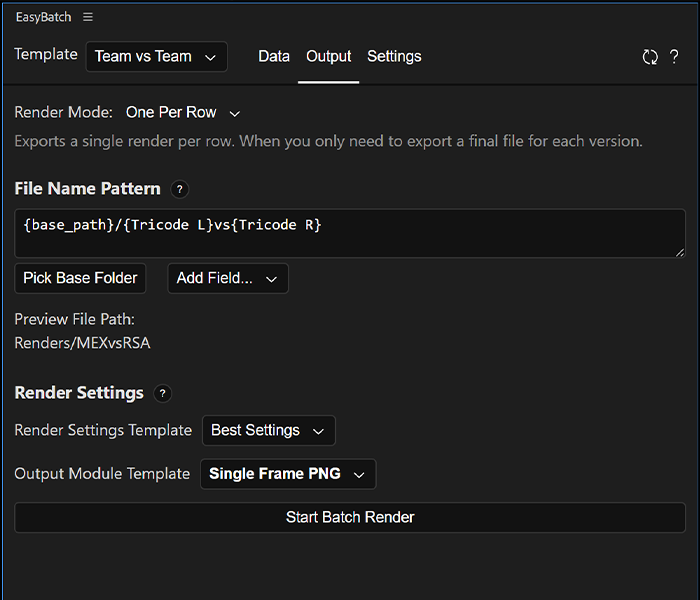
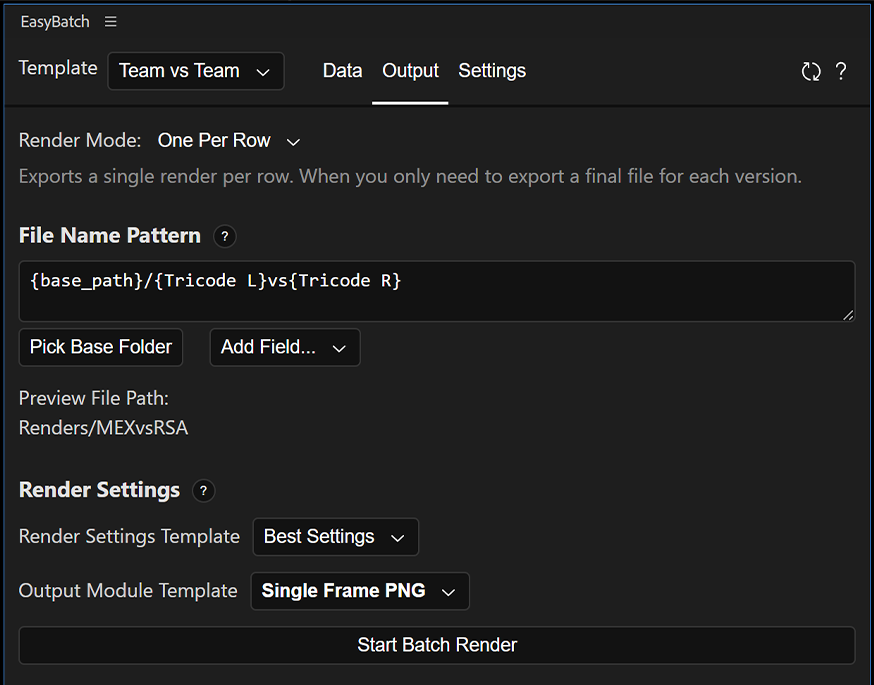
Updated output tab docs. Plus added mod date plugin.

diff --git a/docs/tab-output.md b/docs/tab-output.md
@@ -1,55 +1,137 @@
-In this page you'll find all the configurations to render the  template.
+The `Output` tab is where you configure how your renders are generated and where they are saved. You can choose between rendering files and generating compositions, define dynamic file name patterns, and select the render settings and output module for the generated files.
 
-![Screenshot of the output tab](assets/ss_output.png)
 
-#### Mode
-The output can work in two modes:
+## Render Modes
+Render modes define what the extension does with each row.
 
-- Render: This mode will output files to your drive.
-- Generate Comps: This mode will generate one composition for each row, with the properties replaced with your data. This could be useful is a user had to modify the resulting compositions with no access to EasyBatch.
+## Render Mode: One Per Row
+This is the simplest mode. Each row is applied to the template and then exported in the format you define below.
 
-#### File Name Pattern
-This feature allows you to give dynamic names and paths to your renders. This pattern will be interpreted for each render you do to generate the final path for that file.
+![Screenshot of the output tab](assets/export.png)
 
-In the screenshot above, the pattern `{base_path}/INT_Matchup_{Tricode Home}vs{Tricode Away}` will be replaced as `Renders/INT_Matchup_PALvsPOR`, where the file named `INT_Matchup_PALvsPOR` will be placed inside the folder `Renders`.
+Internally, EasyBatch performs these actions:
+```mermaid
+stateDiagram-v2
+    direction LR
+    [*] --> IncludeComposition
+    IncludeComposition: Include Template Composition (Team vs Team) as a layer inside an empty composition
+    IncludeComposition --> ReplaceProperties
+    ReplaceProperties: Replace essential properties
+    ReplaceProperties --> RenderComposition
+    RenderComposition: Render Composition
+    RenderComposition --> NextRow
+    NextRow: Move to next row of data
+    NextRow --> IncludeComposition
+```
 
-If you include `/` in the pattern, this will interpreted as a subfolder, the pattern is capable of dynamically creating these subfolders.
 
-The pattern is made up of fields, in the case above `{base_path}`, `{Tricode Home}` and `{Tricode Away}` are fields.
+### File Name Pattern
+This feature allows you to give your renders dynamic names and paths. The pattern is interpreted for each render to generate the final file path.
 
-![Screenshot of the available patterns](assets/ss_output_pattern.png)
+![Screenshot of the available patterns](assets/export-pattern.png)
 
-##### Field: Base Path
-Most of the times the patterns will include a base path, this is the folder that all the renders have in common. If you select a folder in the same drive, you'll see that the path will be relative (doesn't include the drive letter), and this will greatly help to keep the project portable. The path is relative to the project.
+In the screenshot above, the pattern `{base_path}/PROMO MATCH {Tricode L}vs{Tricode R}` will be replaced as `Renders/Promos/PROMO MATCH MEXvsRSA`.
 
-To select a base path, click on the `Pick Base Path` button. The add it to the pattern: Click on the dropdown at the left of `Add Field`, and select `Base Path`, then click on `Add Field`. This is the same as if you typed `{base_path}` inside the pattern.
+If you include `/` in the pattern, it is interpreted as a subfolder. The pattern can therefore create subfolders dynamically.
 
-In the screenshot above, we selected the folder `Render`, which is located inside the same folder where the project is saved. Since our path is relative to the location of the project, it is saved as `Render/`.
+The pattern is made up of fields. In the example above, `{base_path}`, `{Tricode L}`, and `{Tricode R}` are fields. The available fields are:
 
-##### Field: Template Name
-It will replace `{template_name}` with the name of the template (surprise!!!), in this case will result in `Team Matchup Interstitial`.
+- **Base Folder**:
+A `Base Folder` allows you to select a folder instead of typing its path into the pattern. Typically, this is the folder that all your renders have in common. If you select a folder on the same drive as the project, the path will be relative and will not include the drive letter. This helps keep the project portable.
 
-##### Field: Row Number
-It will replace `{row_number}` with the current row index. If you have 20 renders, the first one will be `0` and the last one `19`.
+    To select a base path, click the `Pick Base Folder` button. To add it to the pattern, click `Add Field` and select `Base Path`. This is equivalent to typing `{base_path}` in the pattern.
 
-##### Field: Increment
-It will generate an increment. `{increment:0000}` will  be replaced with `0000` for the first row, and with `0001` for the following row. The increment keeps as many leading 0s as you determine. Also, you can set the starting number: `{increment:050}` will be replaced with `050` and in the next render will become `051`.
+    In the screenshot above, we selected the folder `Renders/Promos`, where `Renders` is located in the same folder as the project. Because the path is relative to the project location, it is saved as `Renders/`.
 
-##### Field: *Custom*
-You can also add the values of any template property as part of the pattern. In the case of the screenshot above `{Tricode Home}` will be replaced with `PAL` as this is the value of the column Tricode Home for the first row. For every consecutive row (and therefore render), this will be updated to match the value of Tricode Home for that row.
+- **Template Name**:
+Replaces `{template_name}` with the name of the template (surprise!). In this case, it produces `Team vs Team`.
+
+- **Row Number**:
+Replaces `{row_number}` with the current row index. If you have 20 renders, the first one is `0` and the last one is `19`.
+
+- **Increment**:
+A configurable increment. `{increment:0001}` produces `0001` for the first row and `0002` for the second row. `{increment:050}` produces `050` for the first row and `051` for the second row.
+
+- **Custom**:
+You can also add the value of any template property to the pattern. In the screenshot above, `{Tricode L}` is replaced with the value in the `Tricode L` column for the current row. For every subsequent row and render, this value is updated to match that row.
 
 !!! note "Backslashes in Windows"
+    In both Windows and macOS, use forward slashes to separate directories.
 
-    Beware, in both Windows and Mac, you should be using forward slashes to separate directories.
+### Render Settings
+
+To define the render configuration for all files generated from this template, select a preset for both Render Settings and the Output Module.
+
+- **Render Settings:** Equivalent to selecting a render settings template in the Render Queue. It affects quality, resolution, proxy settings, and more.
+- **Output Module:** Equivalent to selecting an output module in the Render Queue. It affects the codec, compression, audio, and more.
+
+To edit these templates, click `Edit` > `Templates` in the After Effects menu bar, then select the templates you want to modify.
+
+### Render
+When you are ready, click `Start Batch Render`.
+
+## Render Mode: Multi Output
+This is the most complex mode. Instead of creating a reference of your template composition and changing its Essential Properties, the extension modifies the properties of your original composition.
+
+This is useful if you want to export more than one composition per row. For example, several compositions could have properties linked to your main template. Because this mode changes the properties in the template itself, you can export compositions that reference the main template with those properties applied.
+
+![Screenshot of the available patterns](assets/export-multi.png){width="500"}
+
+For the previous example, the extension performs these actions:
+```mermaid
+stateDiagram-v2
+    direction LR
+    [*] --> ReplaceProperties
+    ReplaceProperties: Replace properties directly in "Goal Takeover"
+    ReplaceProperties --> Comp1
+    ReplaceProperties --> Comp2
+    Comp1: GoalTakeover_Broadcast
+    Comp1: Linked properties updated
+    Comp2: GoalTakeover_Scorebug_L
+    Comp2: Linked properties updated
+    Comp1 --> RenderComposition
+    Comp2 --> RenderComposition
+    RenderComposition: Render Compositions
+    RenderComposition --> NextRow
+    NextRow: Move to next row of data
+    NextRow --> ReplaceProperties
+```
+
+### Render Compositions (Purple)
+These are the compositions that the extension renders in this mode. You can add any composition in the project, including the Template Composition.
+
+To add a composition, click the dropdown (orange) below `Add Compositions to Renders`, then select a composition. You can type to search. After selecting a composition, click `Add`. Alternatively, select one or more compositions in the Project panel, then click `Add Selected` and they will be added to the list of compositions to be rendered.
+
+#### Disable Render
+At some point, you may not need to render all the compositions you added. Use the checkboxes to prevent them from rendering.
+
+#### Delete Comp
+Click on the trash icon to remove the composition from the list.
+
+#### Pattern
+Each composition uses a pattern as well. This pattern works the same way as the pattern in `One Per Row` mode. The main difference is that all render compositions share the same base folder for convenience.
+
+In the example pictured, the compositions have the same pattern. This works because the pattern uses the composition name and the country code to save each file, so every file has a unique name.
+
+!!! tip "Pro Tip"
+    Whenever you add a composition to the renders, its configuration is copied from the previous composition, including the pattern. If you have several compositions that use the same pattern, setting up the first one carefully can save time.
+
+Each Render Composition will have a pattern preview.
 
 #### Render Settings
 
-In order to define the render configuration for all the files generated using this template, you need to select a preset for both Render Settings and the Output Module.
+The render settings work the same way as in `One Per Row` mode. Each export can have a different configuration.
 
-- Render Settings: Same as selecting a render settings template in the render queue. It affects the Quality, Resolution, Proxy, etc.
-- Output Module: Same as selecting an output module in the render queue. It affects the codec, compression, audio, etc.
+##### Output Module: Single Frame as PNG
+This is a special mode provided by the extension that lets you save the composition as a single-frame PNG. Compared with using a preset, the main advantage is that this mode does not attach sequence numbers to the exported file, which is otherwise unavoidable.
 
-To make a template, add any composition to the render queue, click on the down facing arrow to the left of `Output Module` and click on `Make Template...`
+In this mode, the render is not queued. Therefore, if all your compositions are being exported as Single Frame PNG, After Effects may appear to be idle even though the frames are being exported.
 
-![Screenshot of the render queue](assets/ss_om.png)
+!!! warning "32 bit projects"
+    This mode may not work properly in 32-bit projects.
 
+### Render
+When you are ready, click `Batch One to Many`.
+    
+## Render Mode: Generate Comps
+This mode generates one composition per row and replaces its properties with the corresponding row data. Use it when you need to modify the resulting compositions without access to EasyBatch.

diff --git a/docs/tab-data.md b/docs/tab-data.md
@@ -1,4 +1,4 @@
-Each property in your Essential Graphics template becomes a column in the `Data` tab. Each row then becomes a version of your render.
+The `Data` tab is where you will edit the versions of your template. Each property in your Essential Graphics template becomes a column in the `Data` tab. Each row then becomes a variation of your render.
 
 ## The Basics
 
@@ -8,7 +8,7 @@ Each property in your Essential Graphics template becomes a column in the `Data`
 Each row is a version of your template. You can add, remove, and edit rows as needed. You can also import rows from an Excel or CSV file. EasyBatch supports the same property types as Essential Graphics. In the simplest render setup, each row becomes a separate render.
 
 ### Top Bar Menus (Yellow)
-!!! info "Use Shortcuts"
+!!! tip "Use Shortcuts"
     All menu actions display their equivalent shortcut on the right. Shortcuts work only while the extension is focused.
 
 #### File
@@ -100,7 +100,7 @@ To add a field, open the `Add Field` dropdown and select one. Fields in bold rep
     You can also go backwards manually with `..` in a relative path. For example, if your project is at `D:/ClientWork/Promo/projects/promo.aep` and the images are stored in `D:/ClientWork/Promo/assets/products`, the pattern `../assets/products/{Product Name}.png` will resolve to `D:/ClientWork/Promo/assets/products/Headphones.png`.
 
 
-#### Importing CSV Data
+## Importing CSV Data
 **Comma-Separated Values** is a file format that stores data in a table, similar to a spreadsheet. To import a CSV file into the extension, make sure the name of each column matches the name of a property in your template. If the columns in the imported file do not match, the extension ignores that data. Values must also be formatted correctly, depending on the type:
 
 - **Text:** Write the text directly in the cells. Line breaks (multiline text) may cause unexpected behavior in the extension.
@@ -109,3 +109,4 @@ To add a field, open the `Add Field` dropdown and select one. Fields in bold rep
 - **Scale:** Represent the scale as an array of three numbers in percentages. For example, a layer at its default scale is `100,100,100`.
 - **Values:** Write any other one-dimensional value directly in the cell.
 - **Images or videos:** The extension currently does not allow file paths to be entered for *replaceables*. To work with these files, see the replaceables section above.
+
